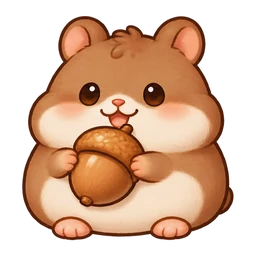
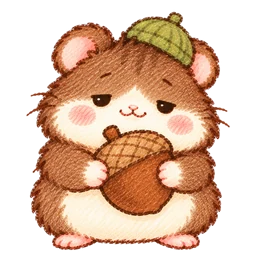
햄스터 마을 소개 페이지 주민 소개(보리·콩이·밤톨)와 마지막 보리 그림을 새 그림으로
Claude-Session: https://claude.ai/code/session_01Acrtw1y1sfwdgk5jkPBVCL

diff --git a/hamster-village.html b/hamster-village.html
@@ -234,9 +234,9 @@ a:focus-visible,button:focus-visible{outline:3px solid #e39a6a;outline-offset:3p
       <h2 id="pets-title">마을의 주민들</h2>
       <p class="lead">마을에는 여덟 마리의 햄스터가 살게 돼요. 먼저 세 친구를 소개할게요.</p>
       <ul class="pets">
-        <li class="pet"><img src="assets/hamster/pet-bori.webp" width="256" height="256" loading="lazy" decoding="async" alt="해바라기씨를 안은 노란 햄스터 보리"><h3>보리</h3><p>볼주머니 가득 이삿짐을 싣고 온 마을의 첫 주민</p></li>
-        <li class="pet"><img src="assets/hamster/pet-kongi.webp" width="256" height="256" loading="lazy" decoding="async" alt="윙크하며 해바라기씨를 안은 크림색 햄스터 콩이"><h3>콩이</h3><p>벽 너머에서 쳇바퀴를 굴리는 씩씩한 이웃</p></li>
-        <li class="pet"><img src="assets/hamster/pet-bamtol.webp" width="256" height="256" loading="lazy" decoding="async" alt="커다란 도토리를 안은 밤색 햄스터 밤톨"><h3>밤톨</h3><p>하품이 끊이지 않는 느긋한 이웃</p></li>
+        <li class="pet"><img src="assets/hamster/pet-bori.webp?v=2" width="256" height="256" loading="lazy" decoding="async" alt="할머니의 지도를 안고 활짝 웃는 주황빛 햄스터 보리"><h3>보리</h3><p>볼주머니 가득 이삿짐을 싣고 온 마을의 첫 주민</p></li>
+        <li class="pet"><img src="assets/hamster/pet-kongi.webp?v=2" width="256" height="256" loading="lazy" decoding="async" alt="하늘색 리본을 달고 팔짱을 낀 채 새침하게 째려보는 회색 햄스터 콩이"><h3>콩이</h3><p>벽 너머에서 쳇바퀴를 굴리는 씩씩한 이웃</p></li>
+        <li class="pet"><img src="assets/hamster/pet-bamtol.webp?v=2" width="256" height="256" loading="lazy" decoding="async" alt="초록 털모자를 쓰고 커다란 도토리를 안은 채 졸린 눈으로 웃는 밤색 햄스터 밤톨"><h3>밤톨</h3><p>하품이 끊이지 않는 느긋한 이웃</p></li>
         <li class="pet locked"><span class="lock" aria-hidden="true"><svg viewBox="0 0 48 48"><rect x="10" y="21" width="28" height="21" rx="6" fill="#d9a774"/><path d="M16 21v-5a8 8 0 0 1 16 0v5" fill="none" stroke="#b9834f" stroke-width="4.5" stroke-linecap="round"/><circle cx="24" cy="31" r="3.2" fill="#8a5a33"/></svg></span><h3>???</h3><p>마을에서 만나보세요</p></li>
         <li class="pet locked"><span class="lock" aria-hidden="true"><svg viewBox="0 0 48 48"><rect x="10" y="21" width="28" height="21" rx="6" fill="#d9a774"/><path d="M16 21v-5a8 8 0 0 1 16 0v5" fill="none" stroke="#b9834f" stroke-width="4.5" stroke-linecap="round"/><circle cx="24" cy="31" r="3.2" fill="#8a5a33"/></svg></span><h3>???</h3><p>마을에서 만나보세요</p></li>
         <li class="pet locked"><span class="lock" aria-hidden="true"><svg viewBox="0 0 48 48"><rect x="10" y="21" width="28" height="21" rx="6" fill="#d9a774"/><path d="M16 21v-5a8 8 0 0 1 16 0v5" fill="none" stroke="#b9834f" stroke-width="4.5" stroke-linecap="round"/><circle cx="24" cy="31" r="3.2" fill="#8a5a33"/></svg></span><h3>???</h3><p>마을에서 만나보세요</p></li>
@@ -302,7 +302,7 @@ a:focus-visible,button:focus-visible{outline:3px solid #e39a6a;outline-offset:3p
   <!-- 7. 플레이 유도 -->
   <section class="outro" aria-labelledby="outro-title">
     <div class="wrap narrow">
-      <img src="assets/hamster/pet-bori.webp" width="256" height="256" loading="lazy" decoding="async" alt="">
+      <img src="assets/hamster/pet-bori-hi.webp" width="256" height="256" loading="lazy" decoding="async" alt="">
       <h2 id="outro-title">보리가 기다리고 있어요</h2>
       <p class="lead">배고픈 보리에게 해바라기씨를 건네는 것부터 시작해요.</p>
       <div class="row">
